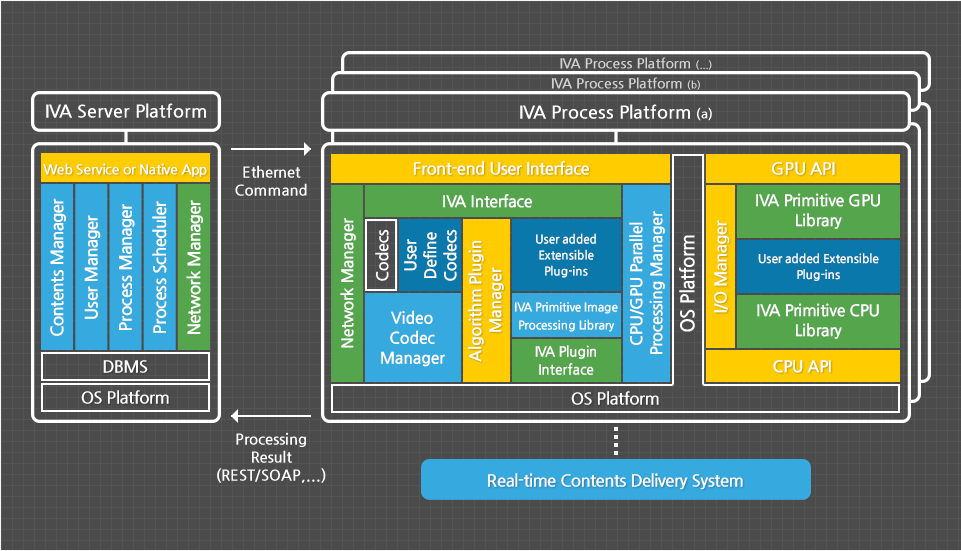
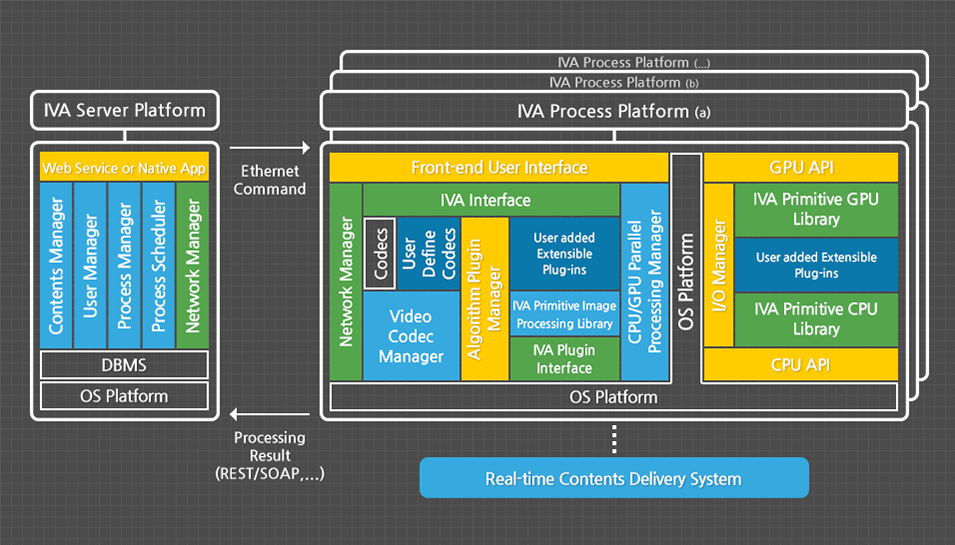
update

Changed region(s): [[0.0304, 0.0936, 0.9717, 0.9358], [0.0, 0.9982, 1.0, 1.0]]

diff --git a/_includes/services.html b/_includes/services.html
@@ -43,7 +43,7 @@
                         <tr>
                             <td width=50%>
                                 <h4 class="service-heading">AI life cycle</h4>
-                                <img class="img-responsive img-left" src="img/portfolio/ai_lifecycle_platform.png" alt="">
+                                <img class="img-responsive img-centered" src="img/portfolio/ai_lifecycle_platform_720x480.png" alt="">
                             </td>
                             <td width=50%>
                                 <p class="text-muted">인공지능은 오류를 포함합니다. 무조건 많은 데이터가 있으면 좋은 인공지능을 개발 할 수 있는 것은 아닙니다. 대부분 인력 기반 인공지능 훈련 데이터를 생산하고 있는데, 이는 많은 시간과 비용을 필요로 합니다. 우리는 자동화된 대용량 데이터 분석 솔루션과 레이블링 툴을 조합하여, 시간과 비용을 줄이고 높은 품질의 데이터를 생산 할 수 있습니다.</p>
@@ -54,7 +54,7 @@
                 <div>
                     <div>
                         <h4 class="service-heading">Intelligent Video Analytics Platform</h4>
-                        <img class="img-responsive img-right" src="img/portfolio/ivap.png" alt="">
+                        <img class="img-responsive img-centered" src="img/portfolio/ivap_720.png" alt="">
                     </div>
                     <div>
                         <p class="text-muted">가치랩스의 IVAP는 다양한 목적의 디지털 영상 입력 장치에 대한 다채널 실시간 입력 데이터 및 분산 스토리지의 오디오 및 이미지를 포함하는 대규모 디지털 비디오 데이터에 대한 입력 – 분석 – 처리 – 결과 확인에 이르는 라이프사이클에 대응하는 S/W 프레임웍 및 분산처리환경의 통합 플랫폼입니다.</p>
